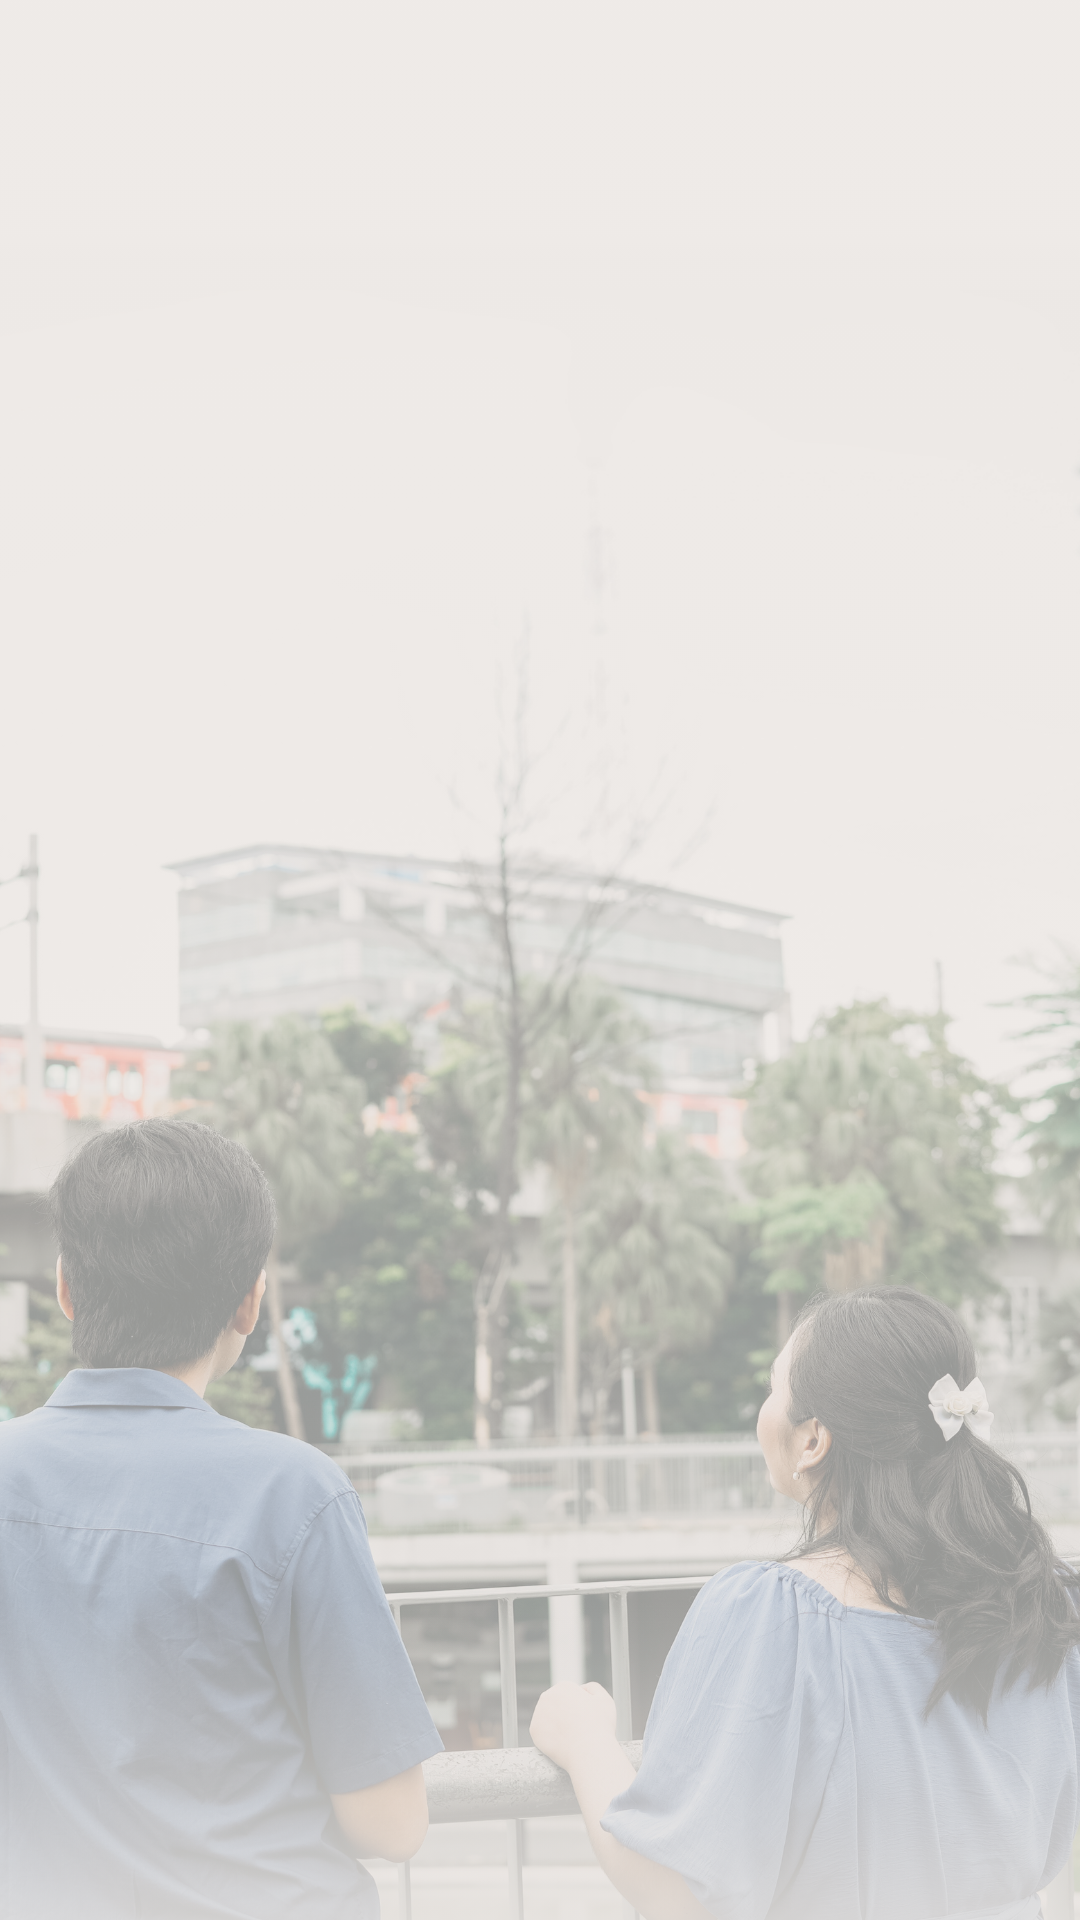
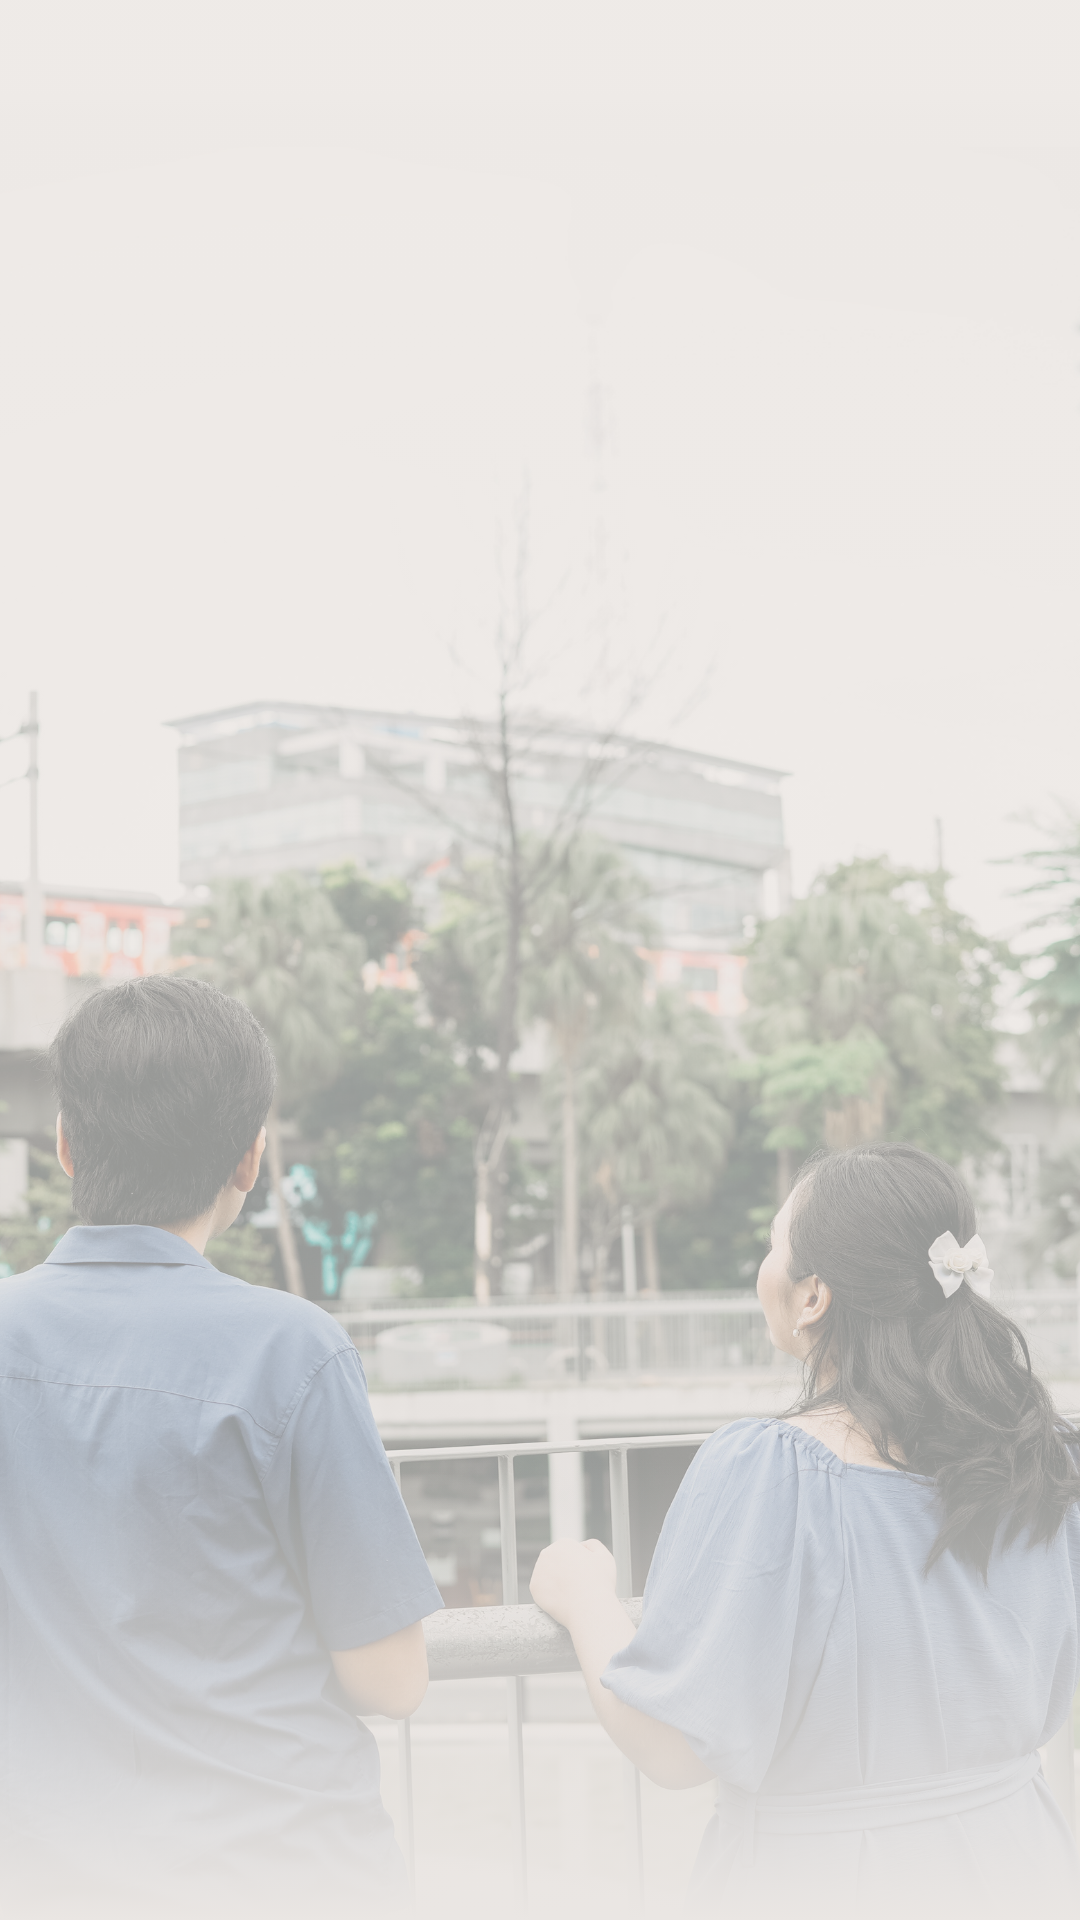
update page 2 and 3

diff --git a/src/app/[id]/page.tsx b/src/app/[id]/page.tsx
@@ -12,7 +12,7 @@ import Background from "../../../public/bg.png";
 import Header from "../../../public/home.png";
 
 import PageTwo from "../../../public/page2.png";
-import PageThree from "../../../public/pg3.png";
+import PageThree from "../../../public/page3.png";
 import PageFour from "../../../public/pg4.png";
 import PageFive from "../../../public/page5.png";
 import PageSix from "../../../public/page6.png";
@@ -176,7 +176,7 @@ export default function Home() {
           </div>
           <div
             style={{
-              backgroundImage: `url(${PageTwo.src})`,
+              backgroundImage: `url(${PageThree.src})`,
               backgroundSize: "cover",
               width: videoWidth,
               height: "100vh",
